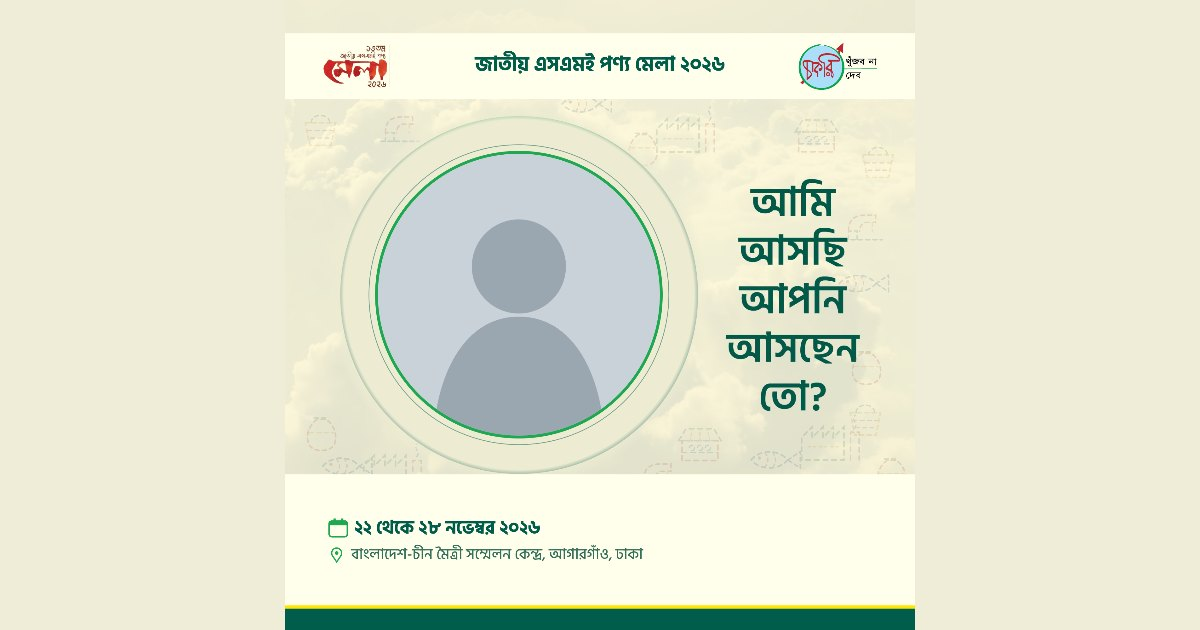
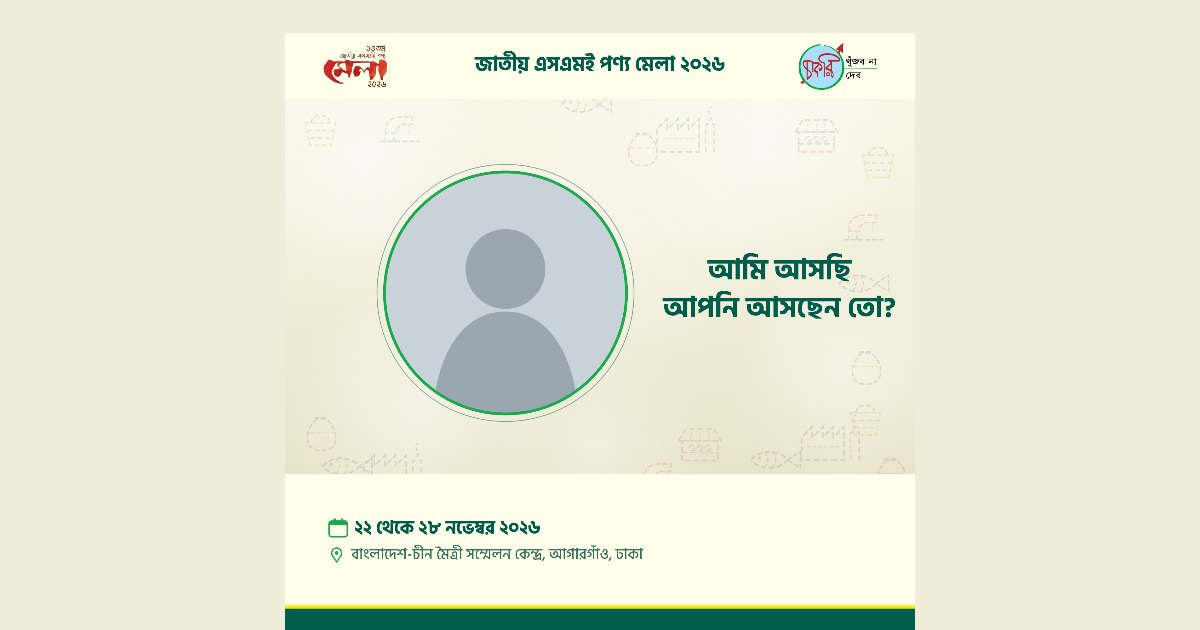
Refresh the photo frame's share image for the drawn sky

diff --git a/README.md b/README.md
@@ -18,7 +18,9 @@ stored in PostgreSQL.
 
 - `app/<page>/page.js` — one banner each: canvas drawing, inputs, preview
 - `components/FrameForm.js` — the shared panel: Download plus the optional details we collect
-- `public/frames/` — the SME fair frame artwork, and the standard stall drawing used on `/fbcover`
+- `public/frames/` — the standard stall and the kantha ground for `/fbcover`, the trade motifs
+  for `/smefair`. `smefair.jpg` is the fair's original artwork and is no longer loaded: that
+  page draws its sky, bands, circle and headline itself.
 - `public/logos/` — the fixed partner logos, cut out with transparent backgrounds
 - `app/api/lead/route.js`, `app/admin/route.js`, `lib/db.js`, `schema.sql` — lead storage
 
